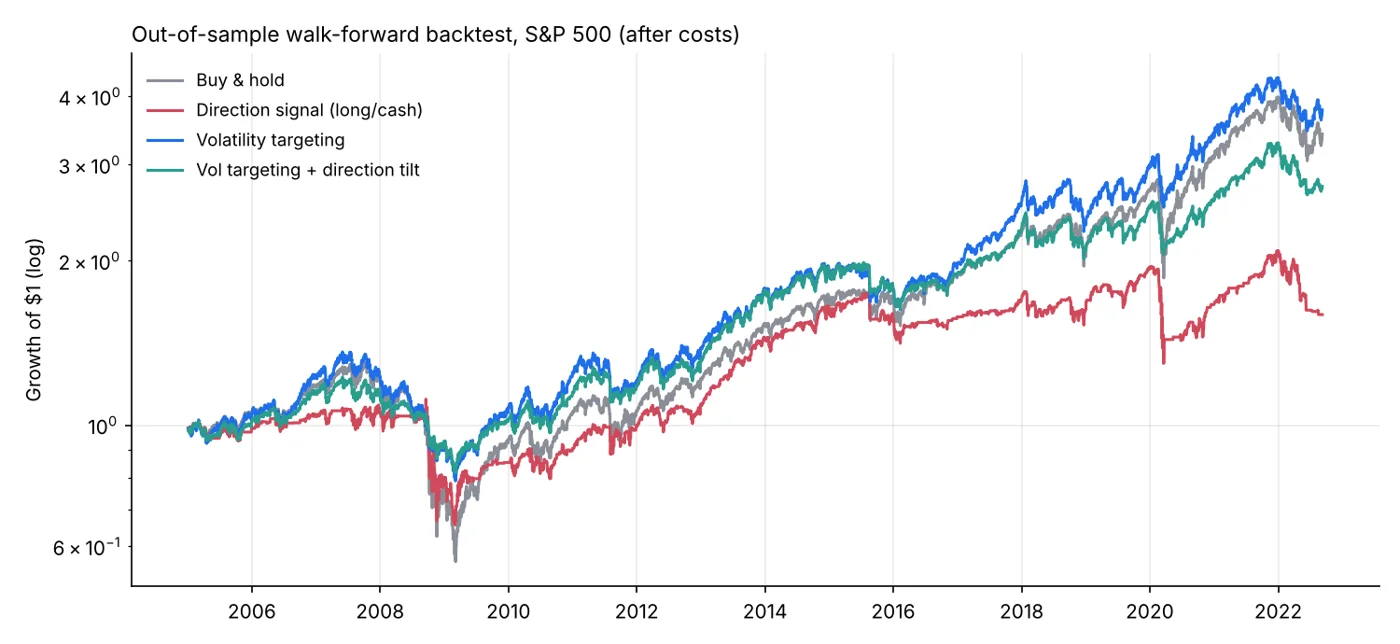
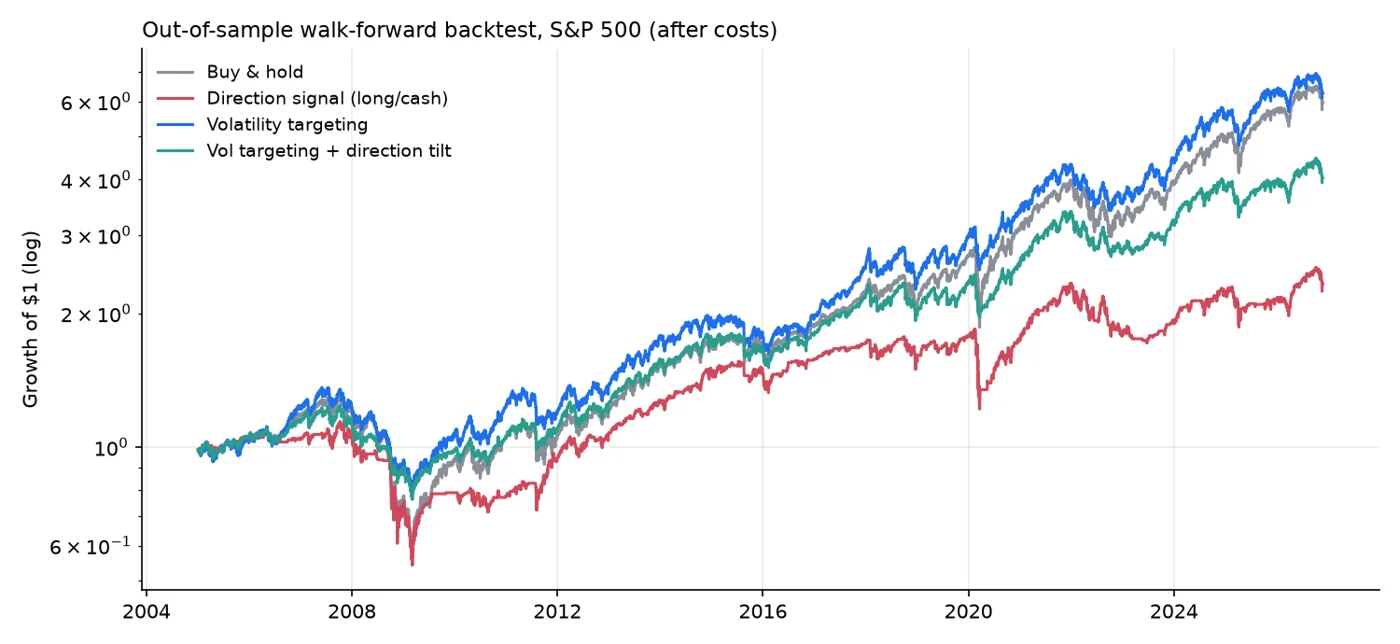
Update chart and Stockr figures to live-data run (2005-2026); new resume
Claude-Session: https://claude.ai/code/session_018218ycpaAP12rS1tGubcHX

Changed region(s): [[0.0, 0.0311, 0.9829, 0.9627]]

diff --git a/index.html b/index.html
@@ -47,11 +47,11 @@
 
       <figure class="hero-chart" aria-labelledby="chart-caption">
         <div class="chart" id="vol-chart" role="img"
-             aria-label="Line chart, 2005 to 2022: forecast S&P 500 volatility closely tracks realized volatility, including the 2008 and 2020 spikes."></div>
+             aria-label="Line chart, 2005 to 2026: forecast S&P 500 volatility closely tracks realized volatility, including the 2008 and 2020 spikes."></div>
         <figcaption id="chart-caption">
           <span class="key key-f">My forecast</span> of S&amp;P&nbsp;500 volatility over the next month,
           made each day without seeing the future, against <span class="key key-r">what actually happened</span>.
-          2005–2022, from <a href="#stockr">Stockr</a>.
+          2005–2026, from <a href="#stockr">Stockr</a>.
           <output class="readout" id="chart-readout" aria-live="polite"></output>
         </figcaption>
       </figure>
@@ -118,9 +118,9 @@
             have known at the time, tested with block-bootstrap and Diebold-Mariano statistics.</p>
           <p>The finding: next-week direction is a coin flip for every model I tried, but volatility
             is forecastable. Sizing positions to the forecast cut the worst drawdown from 57% to
-            42% with similar returns.</p>
+            42% and slightly raised returns.</p>
           <img class="shot" src="assets/stockr-backtest.webp" width="1400" height="630" loading="lazy"
-               alt="Growth of $1 from 2005 to 2022 for buy and hold, a direction signal, volatility targeting, and volatility targeting with a direction tilt. Volatility targeting finishes highest with shallower drawdowns.">
+               alt="Growth of $1 from 2005 to 2026 for buy and hold, a direction signal, volatility targeting, and volatility targeting with a direction tilt. Volatility targeting finishes highest with shallower drawdowns.">
           <p class="links"><a href="https://github.com/dvonnehmielewski/stockr">Code and full report on GitHub</a></p>
           <p class="stack">Python, XGBoost, scikit-learn, SHAP, pandas, GitHub Actions</p>
         </div>
